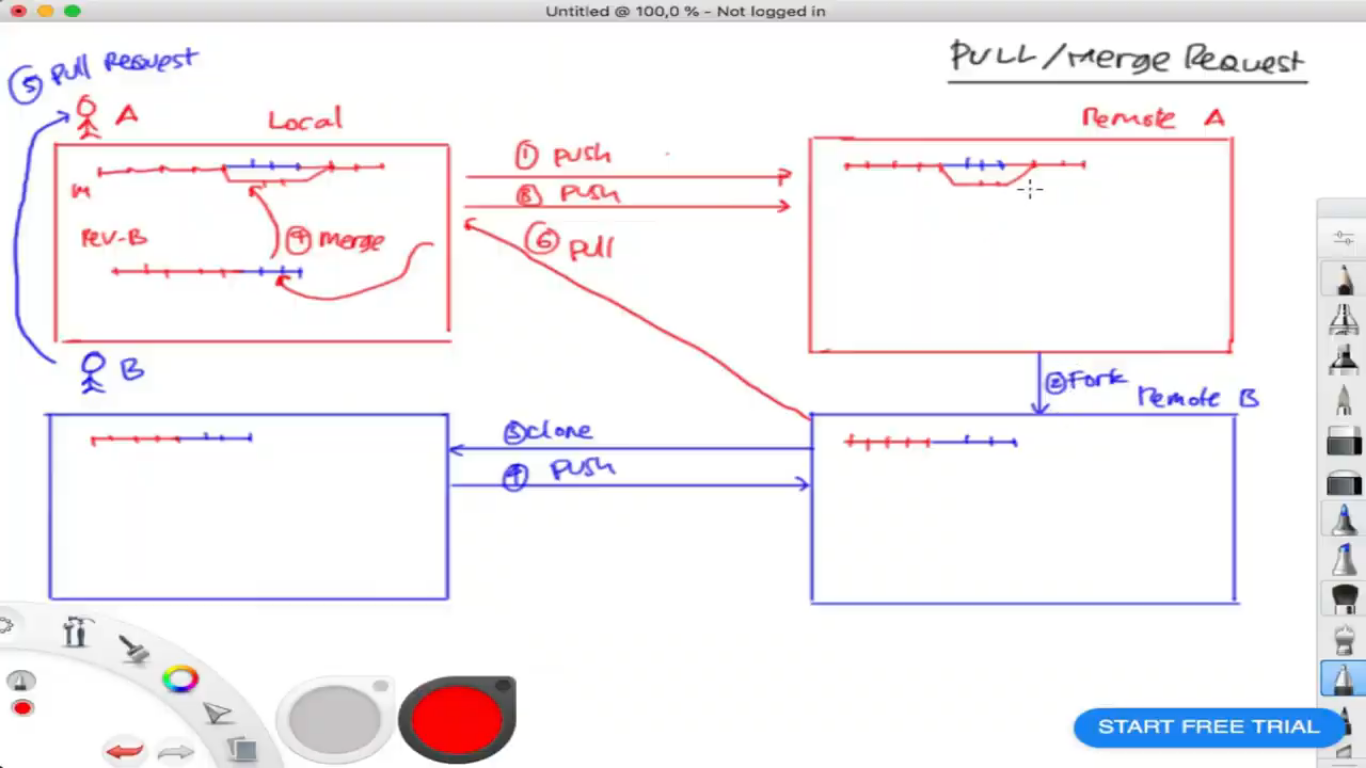
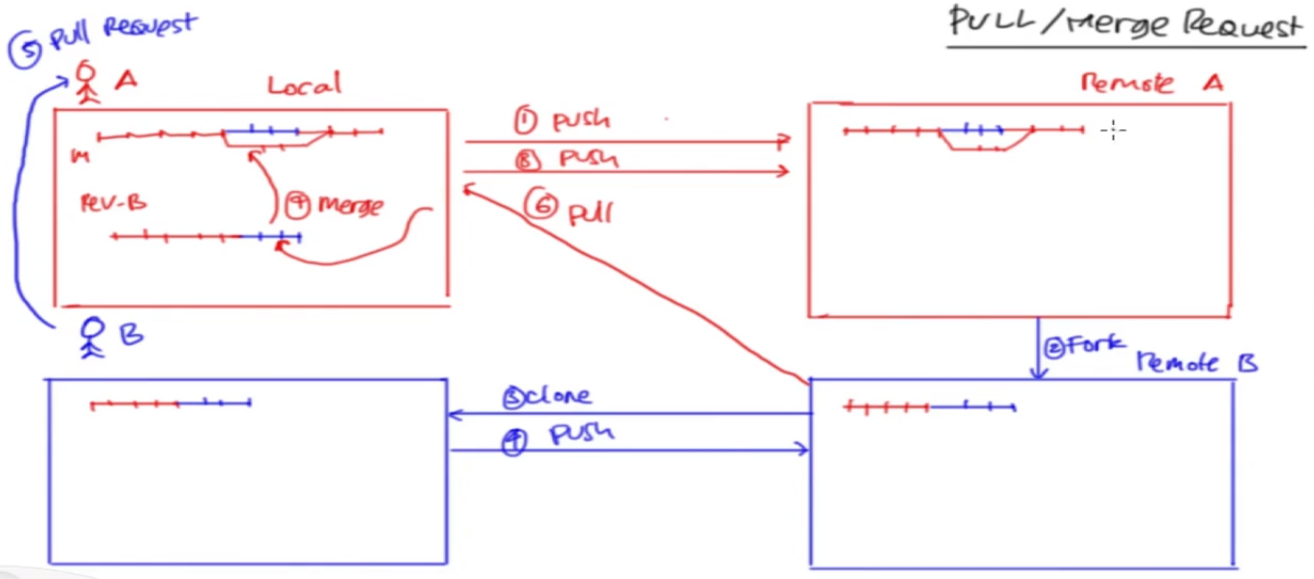
menambahkan pull-merge-request

Changed region(s): [[0.0, 0.0, 1.0, 1.0], [0.0, 0.9948, 0.0312, 1.0]]

diff --git a/commands3/README.md b/commands3/README.md
@@ -107,6 +107,16 @@ bisa masuk ke github lalu delete branch atau dengan cara:
 9. Feature X dapat dipush dan tidak. Dipush kalau feature tersebut dikerjakan bersama atau Sharing dengan Programmer Lain (garis abu-abu pada kotak shared repo).
 
 ### Pull / Merge Request
-
-
+- Seorang Programmer tidak mau memberikan hak menulis (wirte) kepada orang lain, akan tetapi orang lain boleh baca dan copy. Tetapi jika ada yang ingin menambahkan maka Seorang Programmer tersebutlah yang ambil atau pull. Jadi Programmer tersebutlah yang mengontrol. Lalu Programmer lain dapat menambahkan hak menulis dengan _pull / merge request_.
 - Fork -> Mengcopy
+
+![pull-merge-request](https://github.com/helmiz/git-commands/blob/master/img/fpull-merge-request.png)
+
+1. Programmer A mempunyai Project dengan beberapa commit di Local A, Lalu si A push ke Remote punya si A sendiri.
+2. Programmer B ingin ikut Project yang dikerjakan si A dan menambahkan atau memodifikasi beberapa bagian Project tersebut. Dengan begitu maka si B akan melakukan _Fork_ ke Remote B.
+3. Programmer B melakukan Clone.
+4. Programmer B melakukan coding dan perubahan. Lalu si B push ke Remotenya ia Sendiri menjadi delapan commit.
+5. Programmer B ingin apa yang ia tambahkan dapat dipakai oleh orang banyak. Dikarenakan Project tersebutnya punya si A dan yang mempopulerkan si A maka si B membuat _pull request_.
+6. Programmer A akan pull dari Remote B. Lalu si A akan bikin Branch Review si B.
+7. Jika Bagus maka si A akan Merge punya si B.
+8. Programmer A lalu push ke Remote A.
